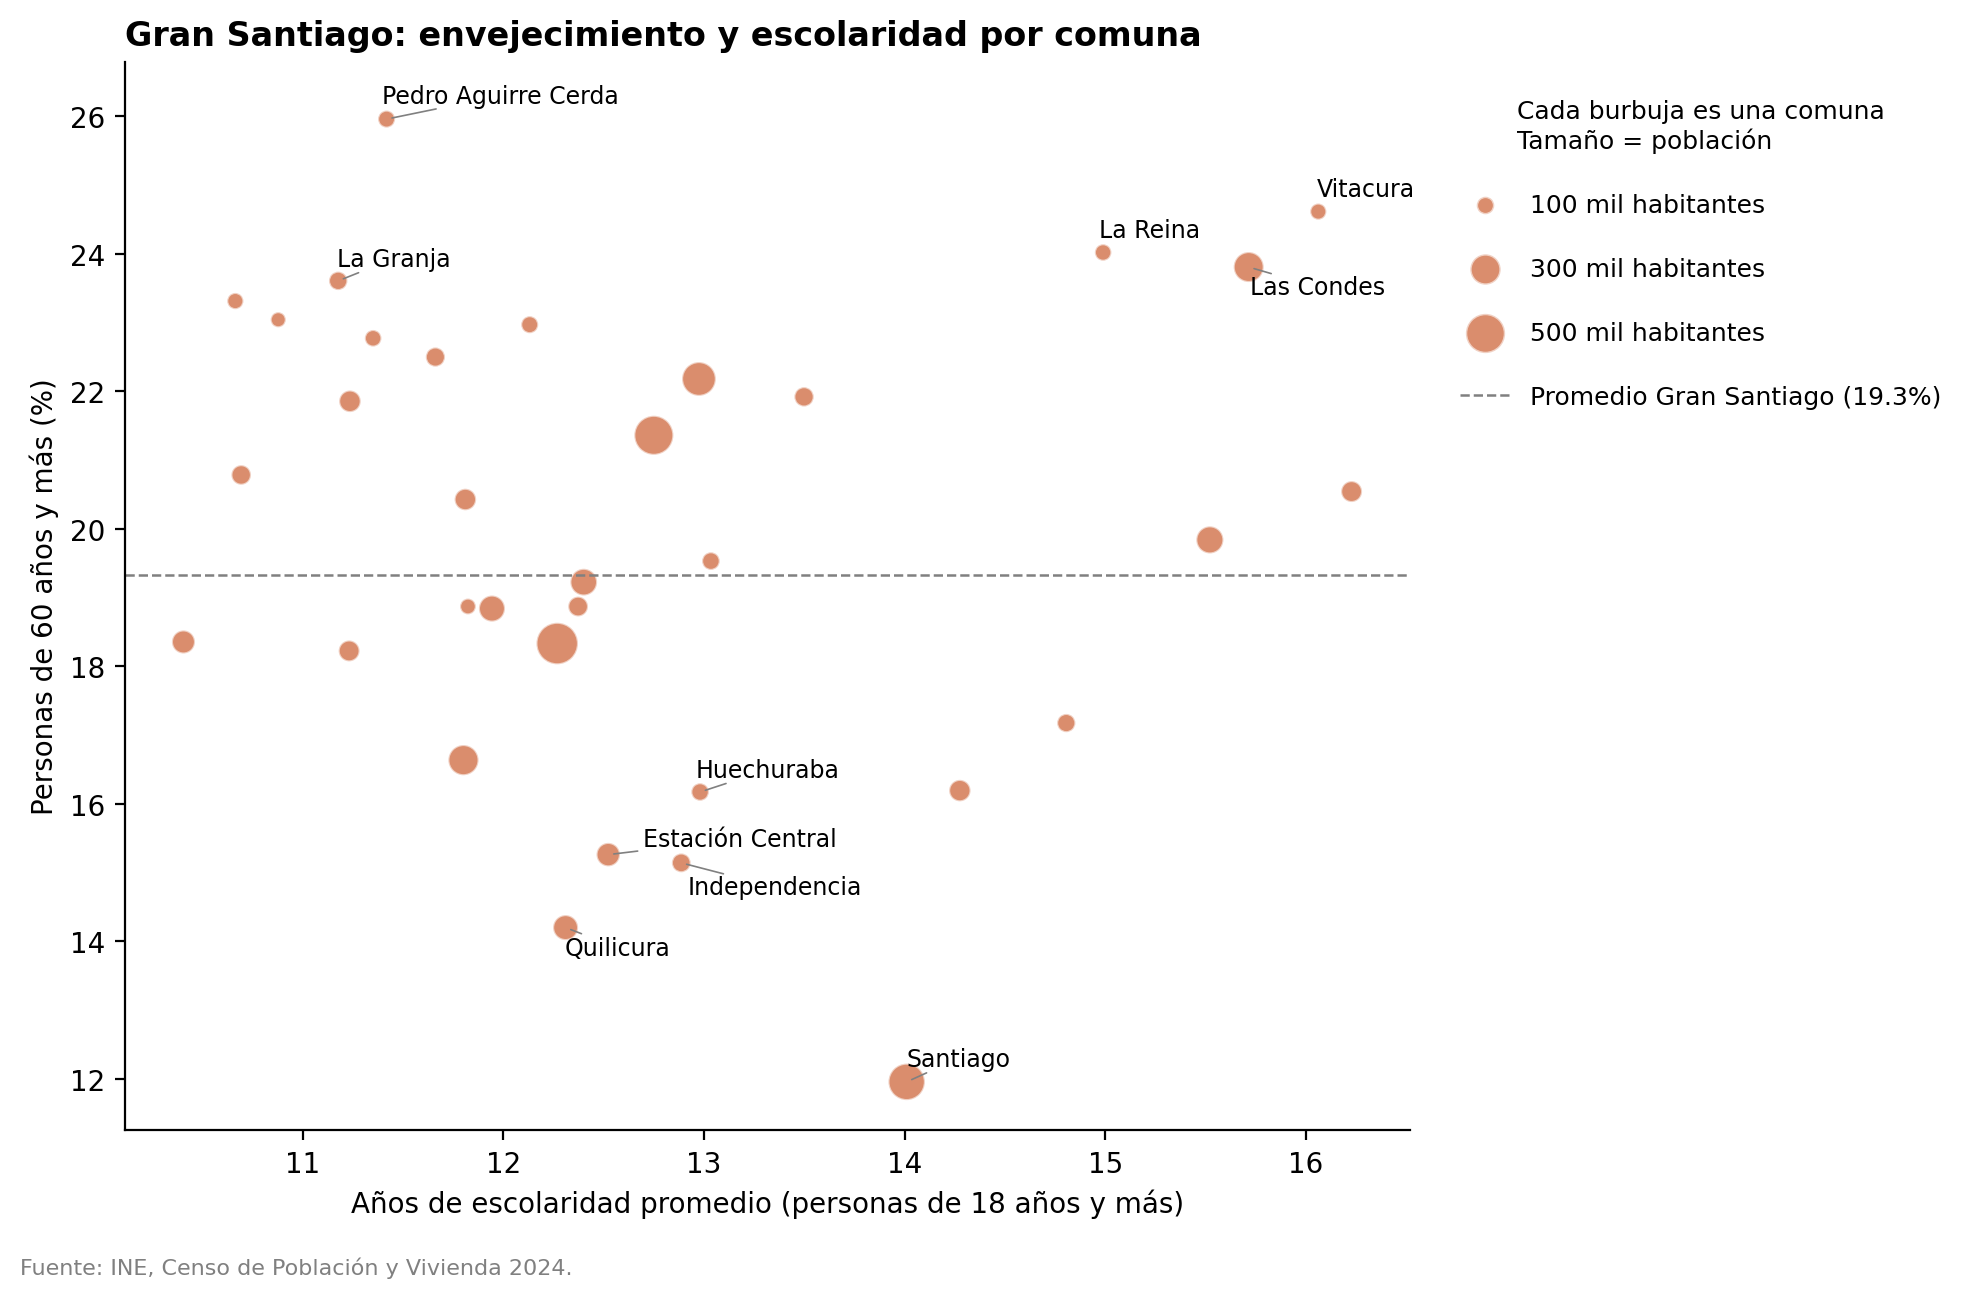
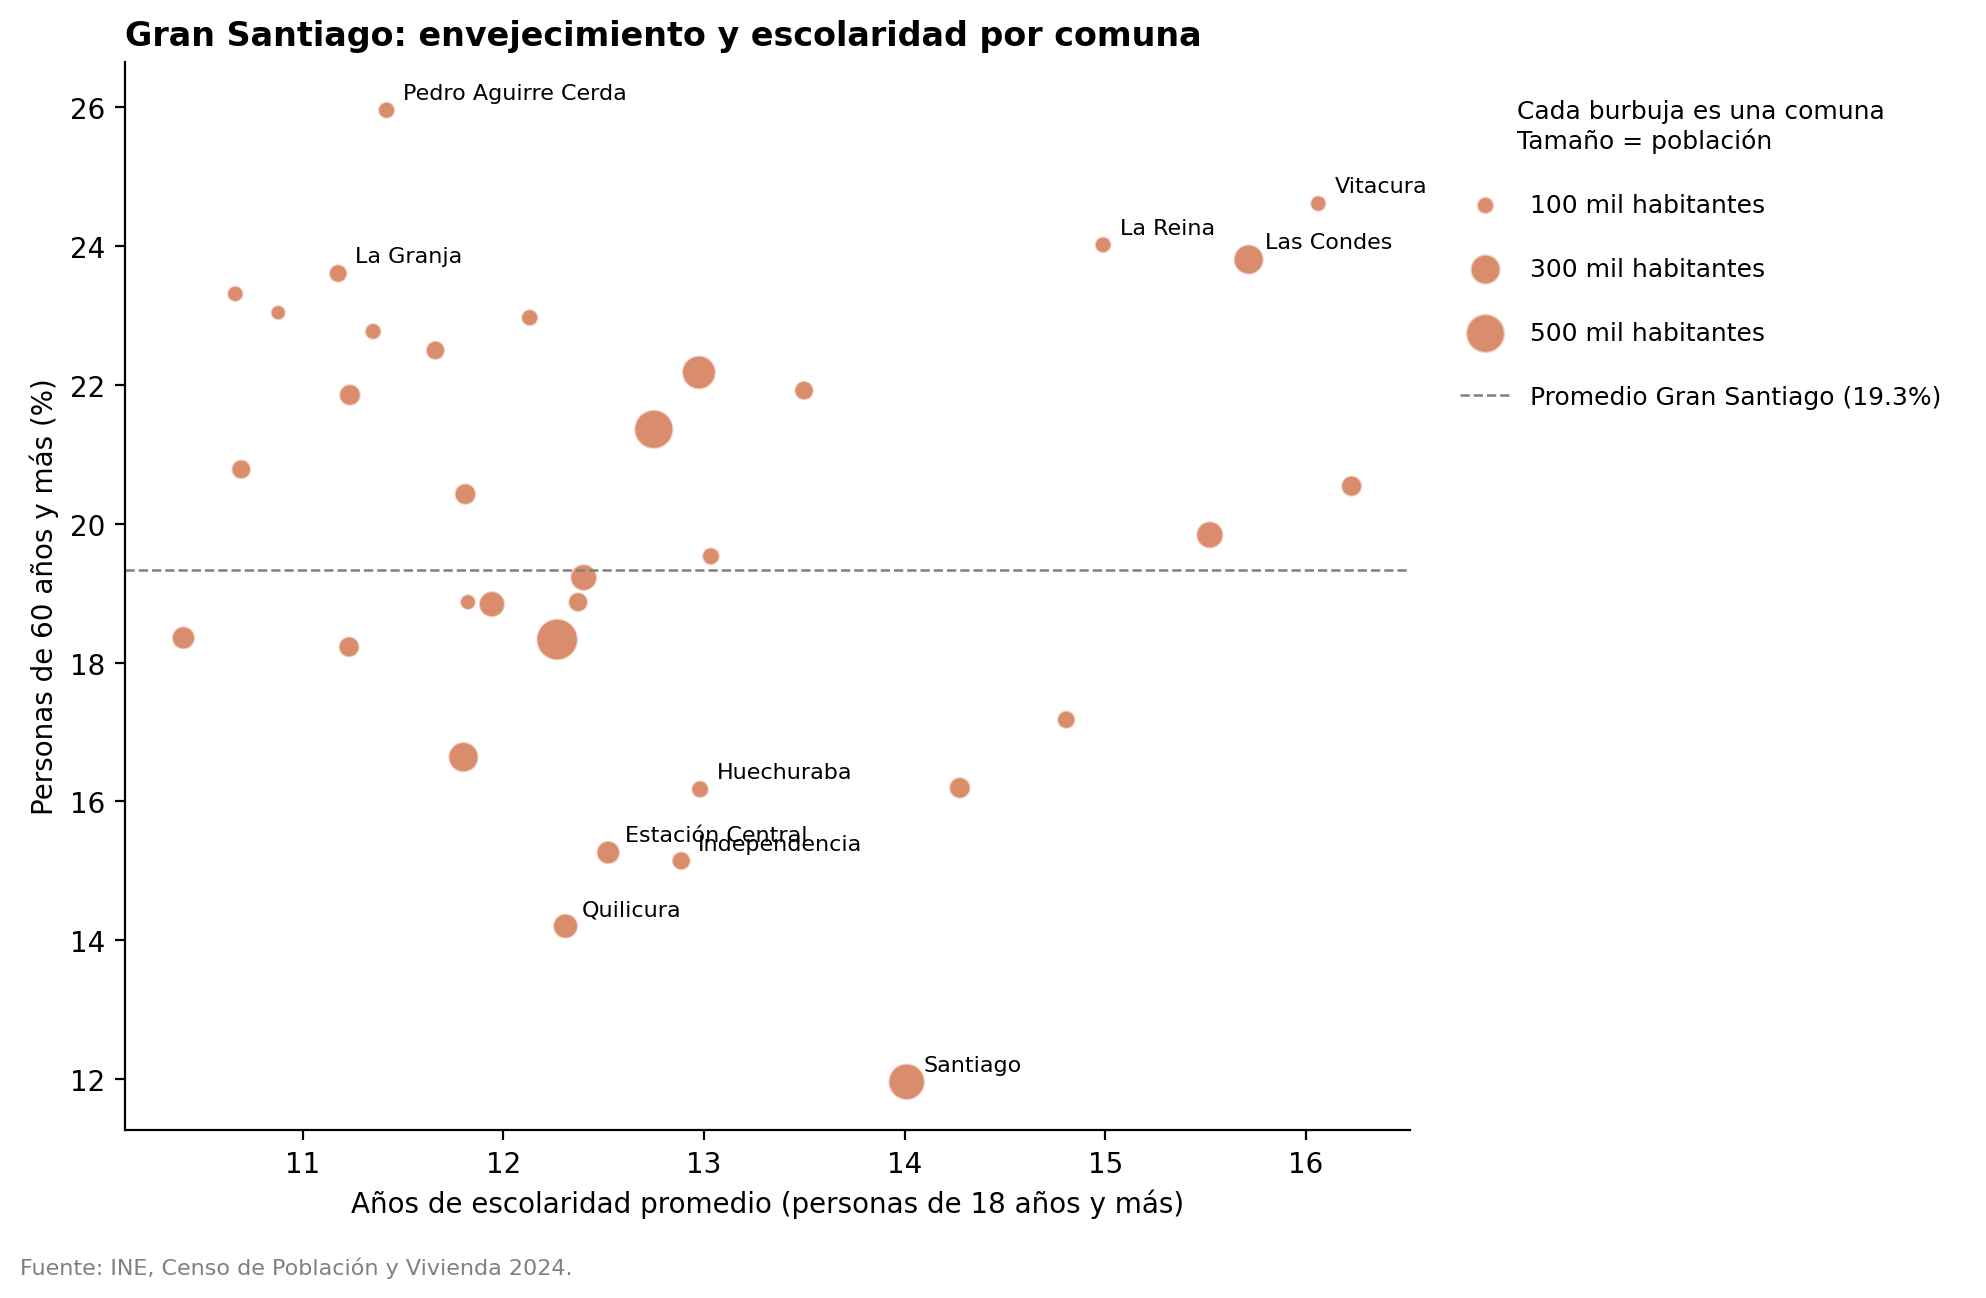
Add files via upload

diff --git a/README.md b/README.md
@@ -1,6 +1,6 @@
 # Mapeo de variables censales en el Gran Santiago
 
-Material de la clase aplicada **Introducción al análisis espacial cuantitativo para las ciencias sociales**.
+Material de la clase aplicada **Introducción al análisis espacial cuantitativo para las ciencias sociales**, Magíster en Metodologías Críticas para la Investigación Social (21 de octubre de 2026).
 
 **Pregunta guía:** ¿dónde se concentran las personas mayores (60 años y más) en el Gran Santiago, y qué patrón territorial muestran?
 
